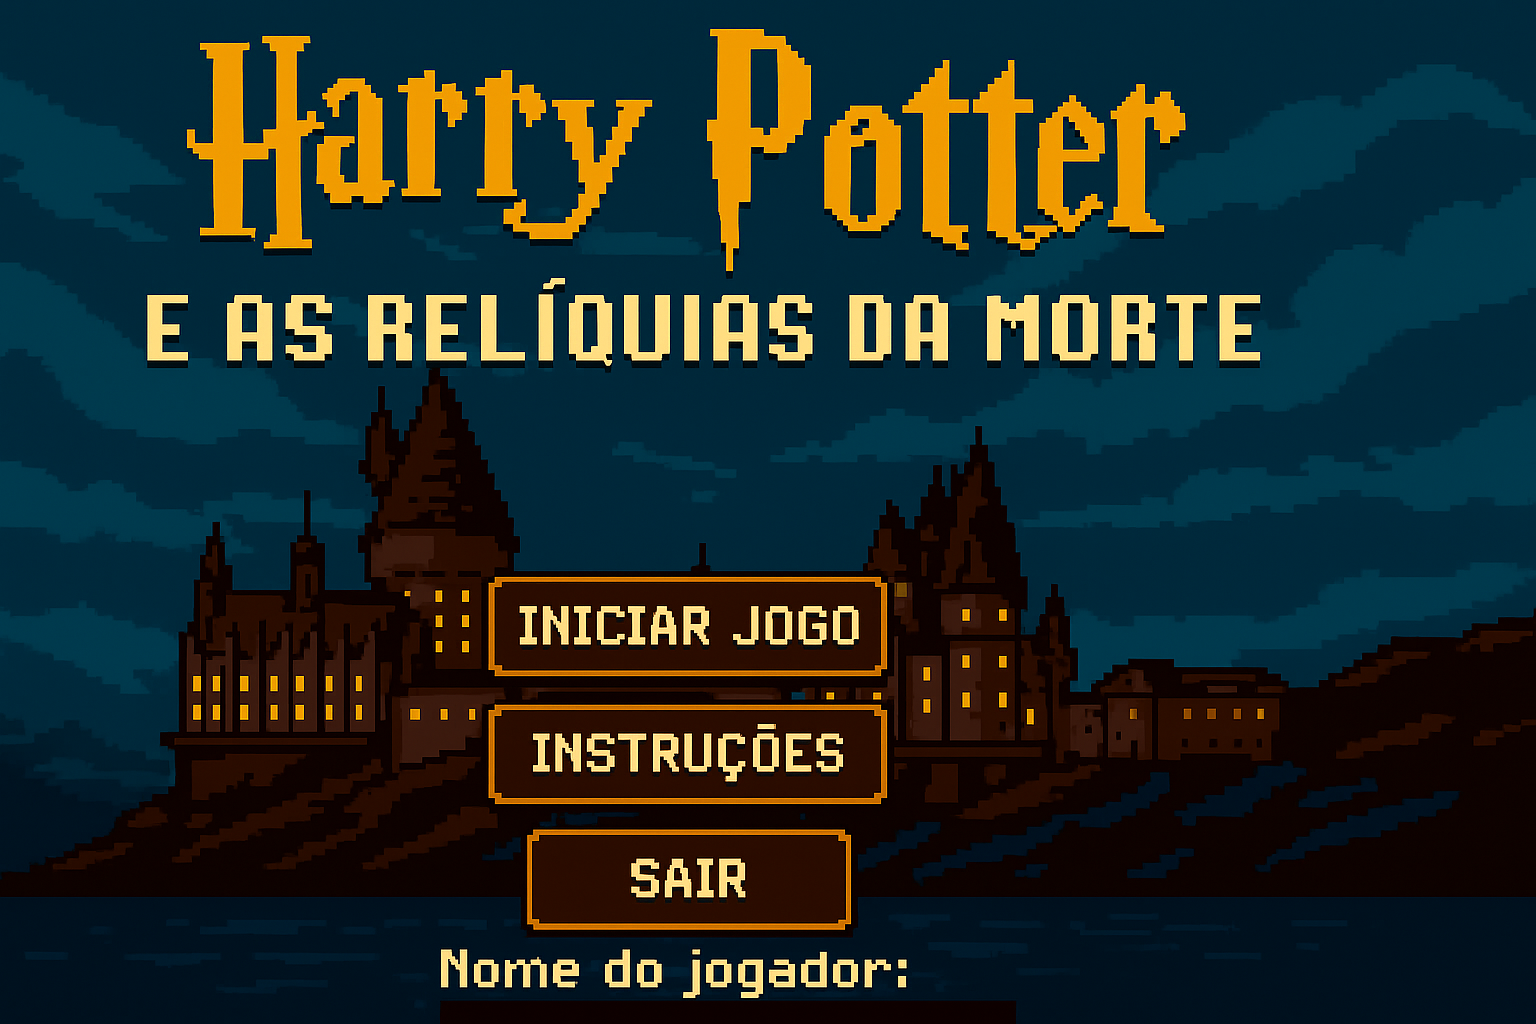
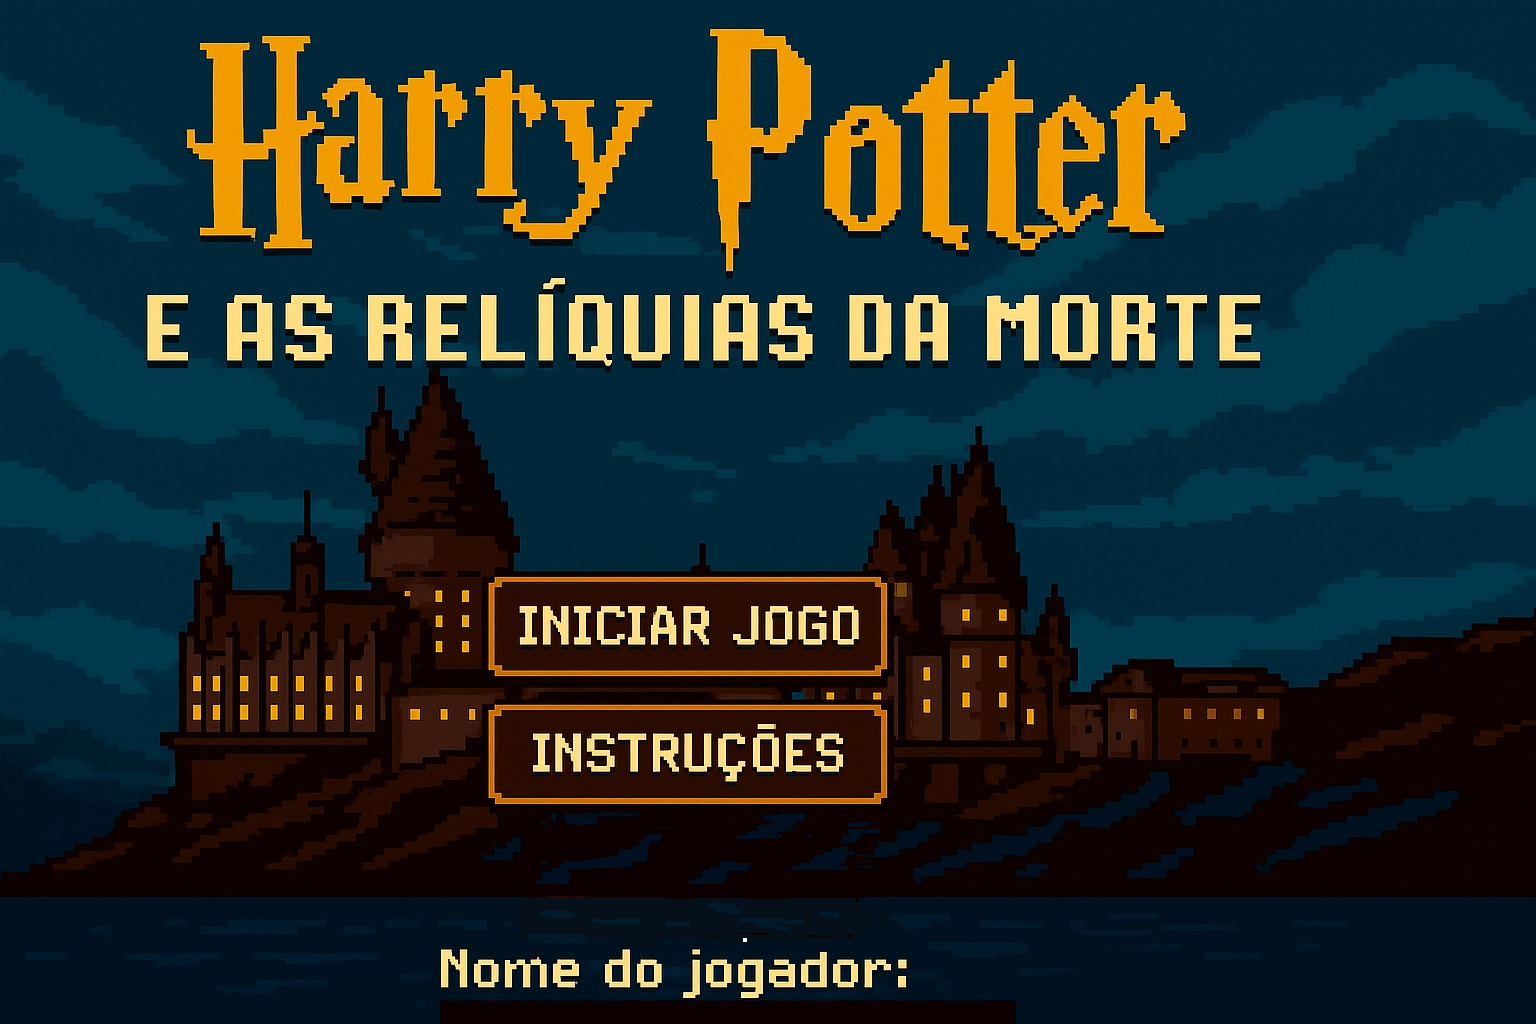
ajuste no botão e tela inical

diff --git a/core/tela_de_instruções.py b/core/tela_de_instruções.py
@@ -1,34 +1,29 @@
 import pygame
 import os
-from config import LARGURA, ALTURA, FPS, IMAGENS_PATH, CINZA, PRETO
+from config import LARGURA, ALTURA, FPS, IMAGENS_PATH
 
 def tela_instrucoes():
     pygame.init()
-    tela=pygame.display.set_mode((LARGURA, ALTURA))
+    tela = pygame.display.set_mode((LARGURA, ALTURA))
     pygame.display.set_caption("Instruções")
     clock = pygame.time.Clock()
 
-    fundo= pygame.image.load('assets\imagens\Tela_de_intruções.png')
+    fundo = pygame.image.load('assets/imagens/Tela_de_intruções.png')
     fundo = pygame.transform.scale(fundo, (LARGURA, ALTURA))
 
-    fonte = pygame.font.SysFont("Courier New", 28)
-    fonte_titulo = pygame.font.SysFont("Courier New", 36)
-    fonte_botao = pygame.font.SysFont("Courier New", 24)
-
-    botao_voltar = pygame.Rect(50, ALTURA -70, 150, 50)
-    cor_botao =CINZA
-    cor_texto_botao= PRETO 
+    botao_voltar = pygame.Rect(598, ALTURA - 142, 300, 40)
 
     rodando = True
 
     while rodando:
         clock.tick(FPS)
         tela.blit(fundo, (0, 0))
-      #Código gerado com auxilio de IA
 
-        pygame.draw.rect(tela, cor_botao, botao_voltar)
-        texto_botao = fonte_botao.render("Voltar", True, cor_texto_botao)
-        tela.blit(texto_botao, (botao_voltar.x + 30, botao_voltar.y + 10))
+        mouse_pos = pygame.mouse.get_pos()
+        if botao_voltar.collidepoint(mouse_pos):
+            brilho = pygame.Surface((botao_voltar.width, botao_voltar.height), pygame.SRCALPHA)
+            brilho.fill((255, 255, 255, 60))
+            tela.blit(brilho, botao_voltar.topleft)
 
         for evento in pygame.event.get():
             if evento.type == pygame.QUIT:
@@ -36,9 +31,9 @@ def tela_instrucoes():
                 exit()
             elif evento.type == pygame.MOUSEBUTTONDOWN:
                 if botao_voltar.collidepoint(evento.pos):
-                    return "voltar" 
+                    return "voltar"
             elif evento.type == pygame.KEYDOWN:
                 if evento.key == pygame.K_RETURN:
-                    rodando = False 
+                    rodando = False
 
         pygame.display.flip()

diff --git a/core/tela_inicial.py b/core/tela_inicial.py
@@ -5,7 +5,7 @@ from core.tela_de_instruções import tela_instrucoes
 from core.jogo import executar_jogo
 def tela_inicial():
     largura_botao = 300
-    altura_botao = 50
+    altura_botao = 40
     espaco_entre_botoes = 20
     altura_base = ALTURA // 2
 
@@ -19,7 +19,7 @@ def tela_inicial():
     fundo = pygame.transform.scale(fundo, (LARGURA, ALTURA))
 
     fonte = pygame.font.SysFont("Courier New", 28)
-    input_box = pygame.Rect(890, 650, 300, 40)
+    input_box = pygame.Rect(860, 630, 300, 40)
     cor_input_ativa = pygame.Color("white")
     cor_input_inativa = pygame.Color("gray")
     cor_input = cor_input_inativa
@@ -27,8 +27,8 @@ def tela_inicial():
     nome = ""
     ativo = False
 
-    botao_jogar = pygame.Rect(LARGURA//2 - largura_botao//2, altura_base, largura_botao, altura_botao)
-    botao_instrucoes = pygame.Rect(LARGURA // 2 - largura_botao // 2, altura_base + altura_botao + espaco_entre_botoes, largura_botao, altura_botao)
+    botao_jogar = pygame.Rect(520, 440 , largura_botao, altura_botao)
+    botao_instrucoes = pygame.Rect(520, 530, largura_botao, altura_botao)
     botao_sair = pygame.Rect(LARGURA // 2 - largura_botao // 2, altura_base + 2 * (altura_botao + espaco_entre_botoes), largura_botao, altura_botao)
     
     while True:
@@ -40,6 +40,10 @@ def tela_inicial():
             brilho.fill((255, 255, 255, 60))  # branco translúcido
             tela.blit(brilho, botao_jogar.topleft)  # centralizado corretamente
 
+        if botao_instrucoes.collidepoint(mouse_pos):
+            brilho = pygame.Surface((botao_instrucoes.width, botao_instrucoes.height), pygame.SRCALPHA)
+            brilho.fill((255, 255, 255, 60))
+            tela.blit(brilho, botao_instrucoes.topleft)
 
         for evento in pygame.event.get():
             if evento.type == pygame.QUIT:
